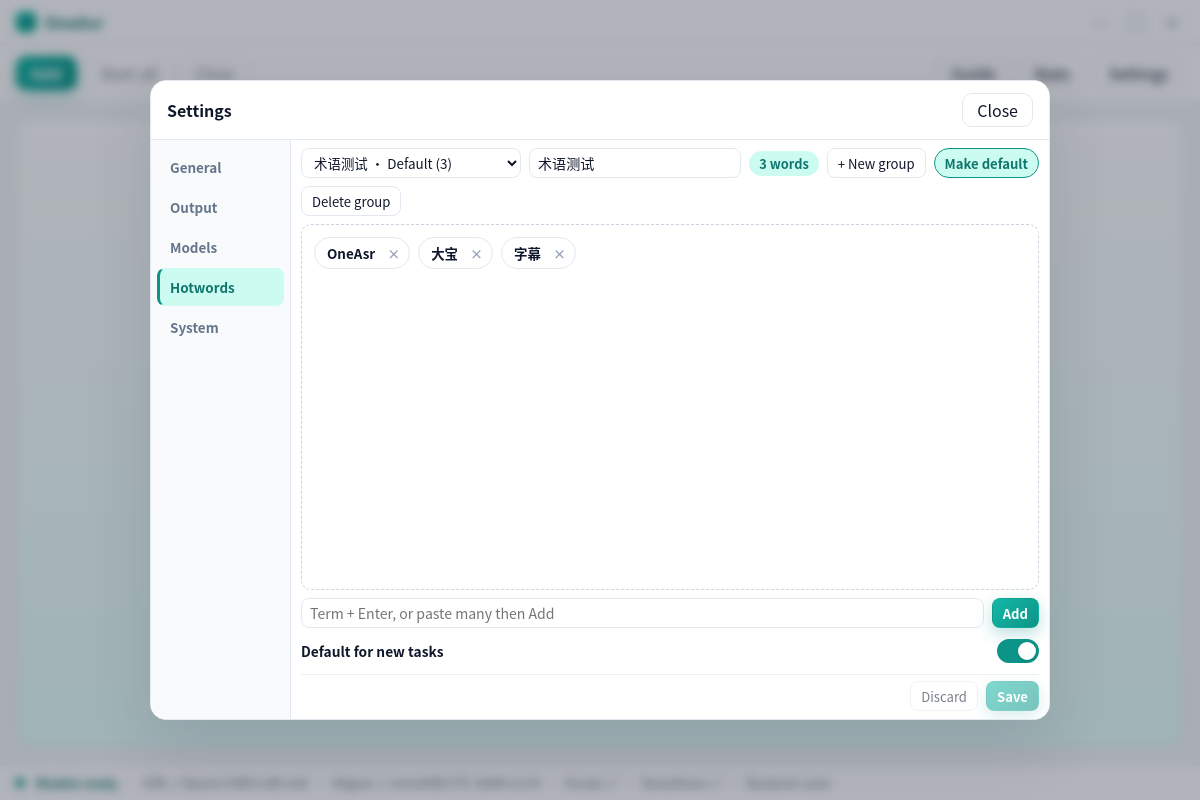
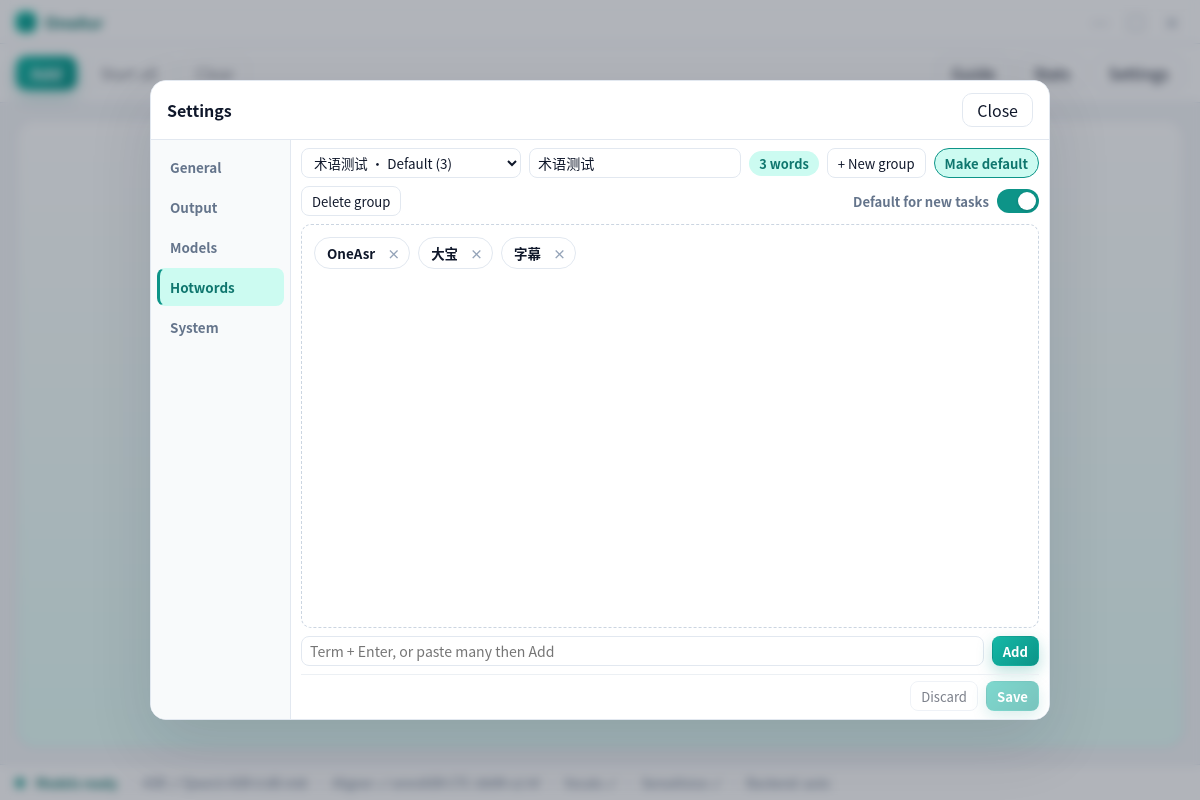
fix(electron): move hotword default toggle to top row
Place「新任务默认启用」on the group management bar; bottom keeps only
add field and discard/save.

Changed region(s): [[0.2467, 0.75, 0.4625, 0.8438], [0.8017, 0.7188, 0.8942, 0.8438], [0.7092, 0.2188, 0.8633, 0.2812]]

diff --git a/apps/electron/src/renderer/src/components/HotwordPanel.tsx b/apps/electron/src/renderer/src/components/HotwordPanel.tsx
@@ -206,6 +206,24 @@ export function HotwordEditor({
         >
           {s.deleteGroup}
         </button>
+        <div className="hw-default-toggle" title={s.defaultGroup}>
+          <span className="pref-label">{s.defaultGroup}</span>
+          <button
+            type="button"
+            className={`toggle ${draft.default_group_enabled ? 'on' : ''}`}
+            role="switch"
+            aria-checked={draft.default_group_enabled}
+            aria-label={s.defaultGroup}
+            disabled={!group}
+            onClick={() =>
+              touch({
+                ...draft,
+                default_group_enabled: !draft.default_group_enabled,
+                default_group: draft.default_group || group?.id || null
+              })
+            }
+          />
+        </div>
       </div>
 
       {/* Middle: chip cloud */}
@@ -236,7 +254,7 @@ export function HotwordEditor({
         )}
       </div>
 
-      {/* Bottom: add + params */}
+      {/* Bottom: add only */}
       <div className="hw-bottom">
         <div className="hw-add">
           <input
@@ -258,23 +276,6 @@ export function HotwordEditor({
           {lastAdded != null && lastAdded > 0 && (
             <span className="hw-add-feedback">+{lastAdded}</span>
           )}
-        </div>
-        <div className="pref-row hw-param-toggle">
-          <span className="pref-label">{s.defaultGroup}</span>
-          <button
-            type="button"
-            className={`toggle ${draft.default_group_enabled ? 'on' : ''}`}
-            role="switch"
-            aria-checked={draft.default_group_enabled}
-            disabled={!group}
-            onClick={() =>
-              touch({
-                ...draft,
-                default_group_enabled: !draft.default_group_enabled,
-                default_group: draft.default_group || group?.id || null
-              })
-            }
-          />
         </div>
       </div>
 

diff --git a/apps/electron/src/renderer/src/styles/app.css b/apps/electron/src/renderer/src/styles/app.css
@@ -702,6 +702,21 @@ select:focus, .text-input:focus, textarea.text-input:focus {
 .hw-group-bar .chip {
   height: 30px;
 }
+.hw-default-toggle {
+  display: inline-flex;
+  align-items: center;
+  gap: 8px;
+  margin-left: auto;
+  flex-shrink: 0;
+  min-height: 30px;
+}
+.hw-default-toggle .pref-label {
+  font-size: 0.82rem;
+  color: var(--muted);
+  font-weight: 550;
+  white-space: nowrap;
+}
+
 .hw-bottom {
   display: flex;
   flex-direction: column;
